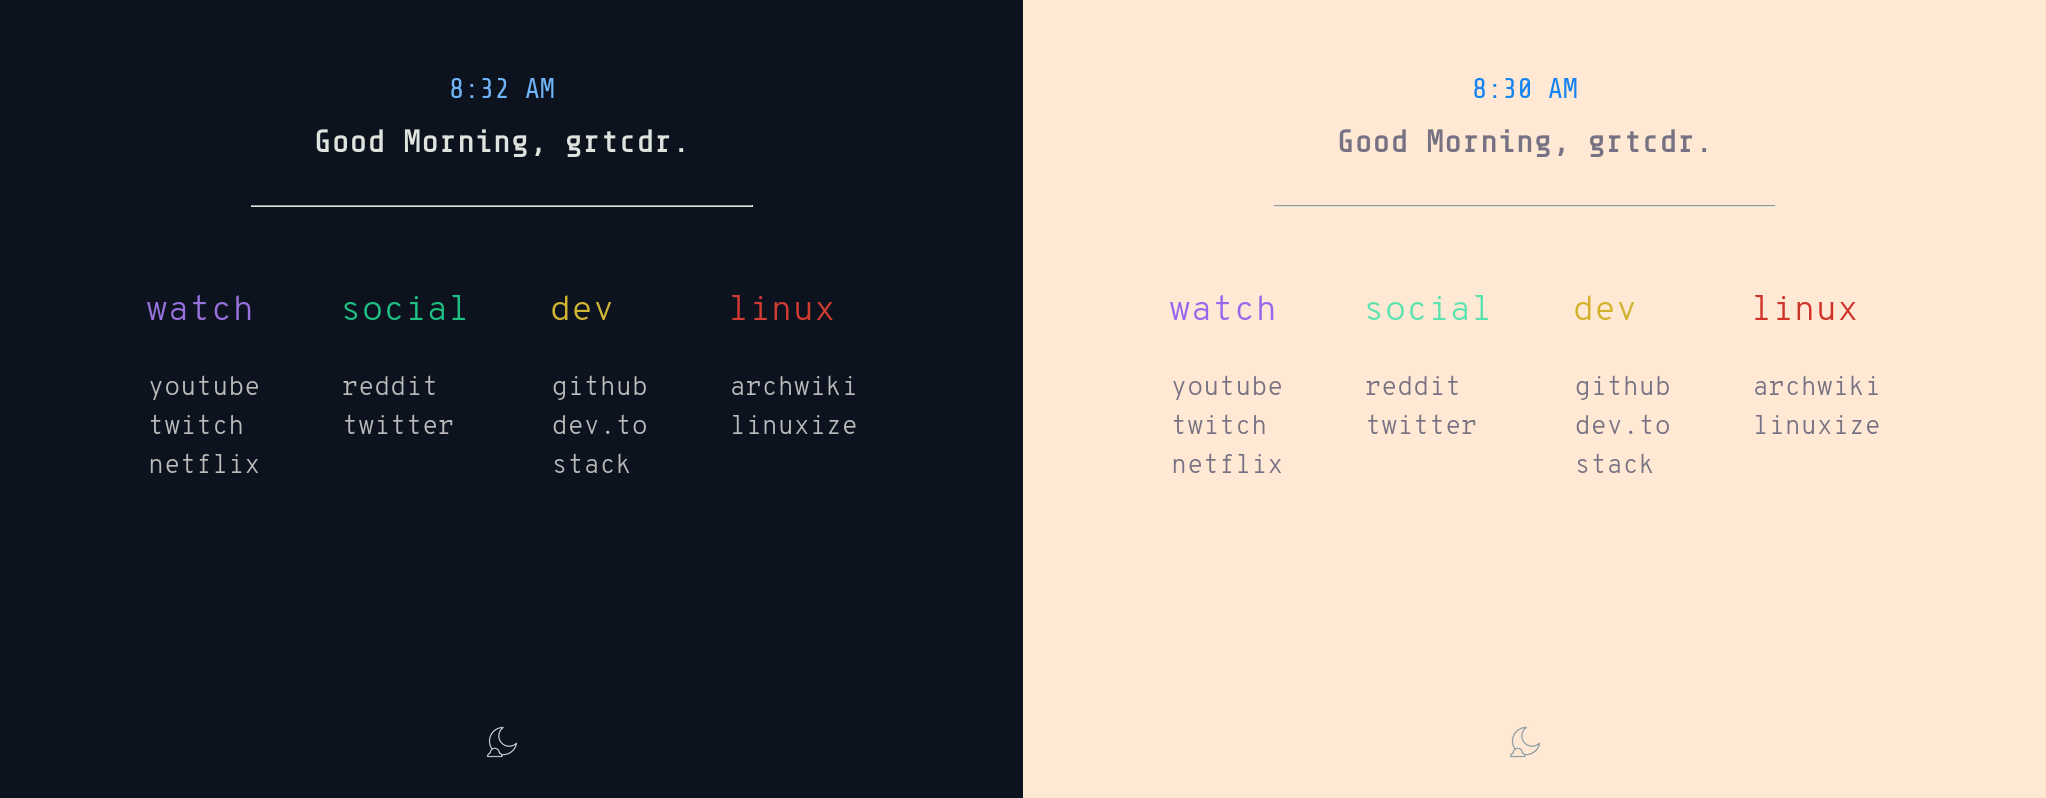
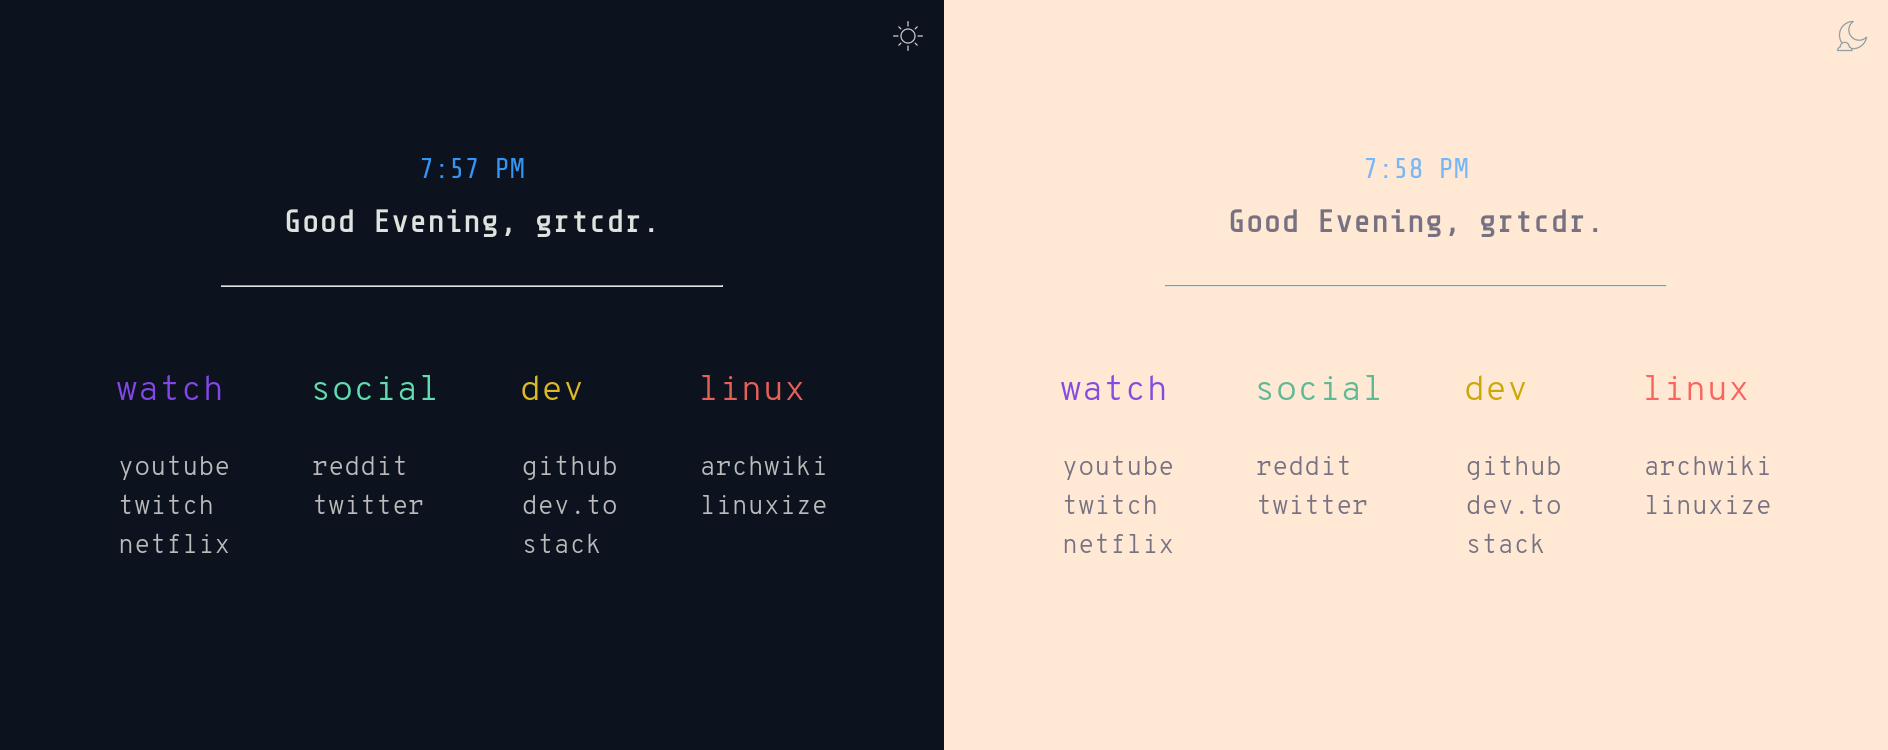
startpage now remembers your last mode + visual changes

diff --git a/src/script.js b/src/script.js
@@ -1,65 +1,69 @@
 // Change this to your username
 var username = "grtcdr";
-var mode = "dark";
+
+if (localStorage.getItem('data') == null) var mode = "dark";
+else mode = localStorage.getItem('data');
 
 const determineGreet = hours => document.getElementById("greeting").innerText = `Good ${hours < 12 ? "Morning," : hours < 18 ? "Afternoon," : "Evening,"} ${username}.`;
 
 // The same as "onload"
 window.addEventListener('load', (event) => {
     let today = new Date();
-    let time = today.toLocaleTimeString([], {hour: '2-digit', minute:'2-digit'});
+    let time = today.toLocaleTimeString([], { hour: '2-digit', minute: '2-digit' });
+    change_colors(mode);
     determineGreet(new Date().getHours());
     displayTime(time);
-  });
+});
 
-setInterval( function() {
+setInterval(function () {
     var today = new Date();
-    var time = today.toLocaleTimeString([], {hour: '2-digit', minute:'2-digit'});
+    var time = today.toLocaleTimeString([], { hour: '2-digit', minute: '2-digit' });
     document.getElementById("time").innerHTML = time;
 }, 1000);
 
-document.getElementById("mode").addEventListener("click", function(){
-    if (mode == "dark") { 
-        change_colors(mode);
-        mode = "light";
+document.getElementById("mode").addEventListener("click", function () {
+    if (mode == "dark") {
+        change_colors("light");
+        localStorage.setItem('data', 'light');
+        data = localStorage.getItem('data');
+        mode = data;
     }
-    else { 
-        change_colors(mode);
-        mode = "dark"
+    else {
+        change_colors("dark");
+        localStorage.setItem('data', 'dark');
+        data = localStorage.getItem('data');
+        mode = data;
     }
-    
-    console.log(mode);
-}); 
+});
 
-function displayTime(time) 
-{
+function displayTime(time) {
     document.getElementById("time").innerHTML = time;
 }
 
-function dark_colors()
-{
+function dark_colors() {
     let link = document.getElementsByTagName('a');
-    document.body.style.background="#0C131F";
+    let mode_id = document.getElementById("mode");
+    document.body.style.background = "#0C131F";
     document.getElementById("greeting").style.color = "#dee3de";
-    document.getElementById("mode").style.filter = "invert(100%) sepia(0%) saturate(1620%) hue-rotate(8deg) brightness(94%) contrast(88%)";
-    for (i=0;i<link.length;i++) {
+    mode_id.src = "ico/light.png";
+    mode_id.style.filter = "invert(100%) sepia(0%) saturate(1620%) hue-rotate(8deg) brightness(94%) contrast(88%)";
+    for (i = 0; i < link.length; i++) 
         link[i].style.color = "#bbb";
-    }
+
 }
-function light_colors()
-{
+
+function light_colors() {
     let link = document.getElementsByTagName('a');
+    let mode_id = document.getElementById("mode");
     document.body.style.background = "#FFE8D4";
-    document.getElementById("mode").style.filter = "invert(58%) sepia(12%) saturate(482%) hue-rotate(148deg) brightness(94%) contrast(86%)";
     document.getElementById("greeting").style.color = "#767283";
-    for (i=0;i<link.length;i++) {
-    link[i].style.color = "#767283";
-    }
+    mode_id.src = "ico/dark.png";
+    mode_id.style.filter = "invert(58%) sepia(12%) saturate(482%) hue-rotate(148deg) brightness(94%) contrast(86%)";
+    for (i = 0; i < link.length; i++) 
+        link[i].style.color = "#767283";
 }
 
-function change_colors(mode)
-{
-    if (mode == "dark") { light_colors(); }
-    else { dark_colors(); }
+function change_colors(mode) {
+    if (mode == "dark") light_colors();
+    else dark_colors();
 }
-

diff --git a/src/style.css b/src/style.css
@@ -1,11 +1,6 @@
 body {
     background-color: #0C131F;
 }
-.mode_class{
-    display: flex;
-    justify-content: center;
-    padding-top: 200px;
-}
 .info {
     display: flex;
     flex-direction: column;
@@ -14,20 +9,20 @@ body {
     text-align: center;
     font-family: 'Share Tech Mono', monospace;
 }
-.list_title
-{
-    font-size: 35px;
-}
 @media all and (max-width: 550px) {
     .info, hr
     {
         visibility: hidden;
         margin: auto;
     }
-    .entertainment, .social, .dev, .linux {
+    .watch, .social, .dev, .linux {
         flex-direction: column;
         width: auto;
     }
+}
+.list_title
+{
+    font-size: 35px;
 }
 .lists {
     display: flex;
@@ -36,7 +31,7 @@ body {
     justify-content: center; 
     font-family: 'Overpass Mono', monospace;
 }
-.entertainment, .social, .dev, .linux {
+.watch, .social, .dev, .linux {
     display: flex;
     flex-direction: column;
     padding: 40px;
@@ -138,6 +133,19 @@ a:hover {
 #stackoverflow:hover {
     color: #EF8236 !important
 }
+.mode_class{
+    /*display: flex;
+    justify-content: center;
+    padding-top: 200px;*/
+    position: absolute;
+    top: 0;
+    right: 0;
+    margin-top: 20px;
+    margin-right: 20px;
+}
 #mode {
-   filter: invert(100%) sepia(0%) saturate(1620%) hue-rotate(8deg) brightness(94%) contrast(88%); 
+   filter: invert(100%) sepia(0%) saturate(1620%) hue-rotate(8deg) brightness(94%) contrast(88%)
+}
+#mode:hover {
+    filter: invert(56%) sepia(45%) saturate(6917%) hue-rotate(173deg) brightness(96%) contrast(82%) !important
 }

diff --git a/src/startpage.html b/src/startpage.html
@@ -15,7 +15,7 @@
         </div>
         <hr>
         <div class="lists">
-            <div class="entertainment">
+            <div class="watch">
                 <p class="list_title" id="w">watch</p>
                 <a href="https://www.youtube.com" id="youtube">youtube</a><br>
                 <a href="https://www.twitch.tv/" id="twitch">twitch</a><br>
@@ -39,7 +39,7 @@
             </div>
         </div>
         <div class="mode_class"> 
-            <img src="ico/dark.png" id="mode" width="32" height="32">
+            <img src="ico/light.png" id="mode" width="32" height="32">
         </div>
         <script async type="text/javascript" src="script.js"></script>
     </body>

diff --git a/README.md b/README.md
@@ -8,4 +8,4 @@ __Main features:__
 - Time-based greeting
 
 ### Todo:
-- [ ] Startpage remembers the last mode you were in and sets it on load
+- [ x ] Startpage remembers the last mode you were in and sets it on load
